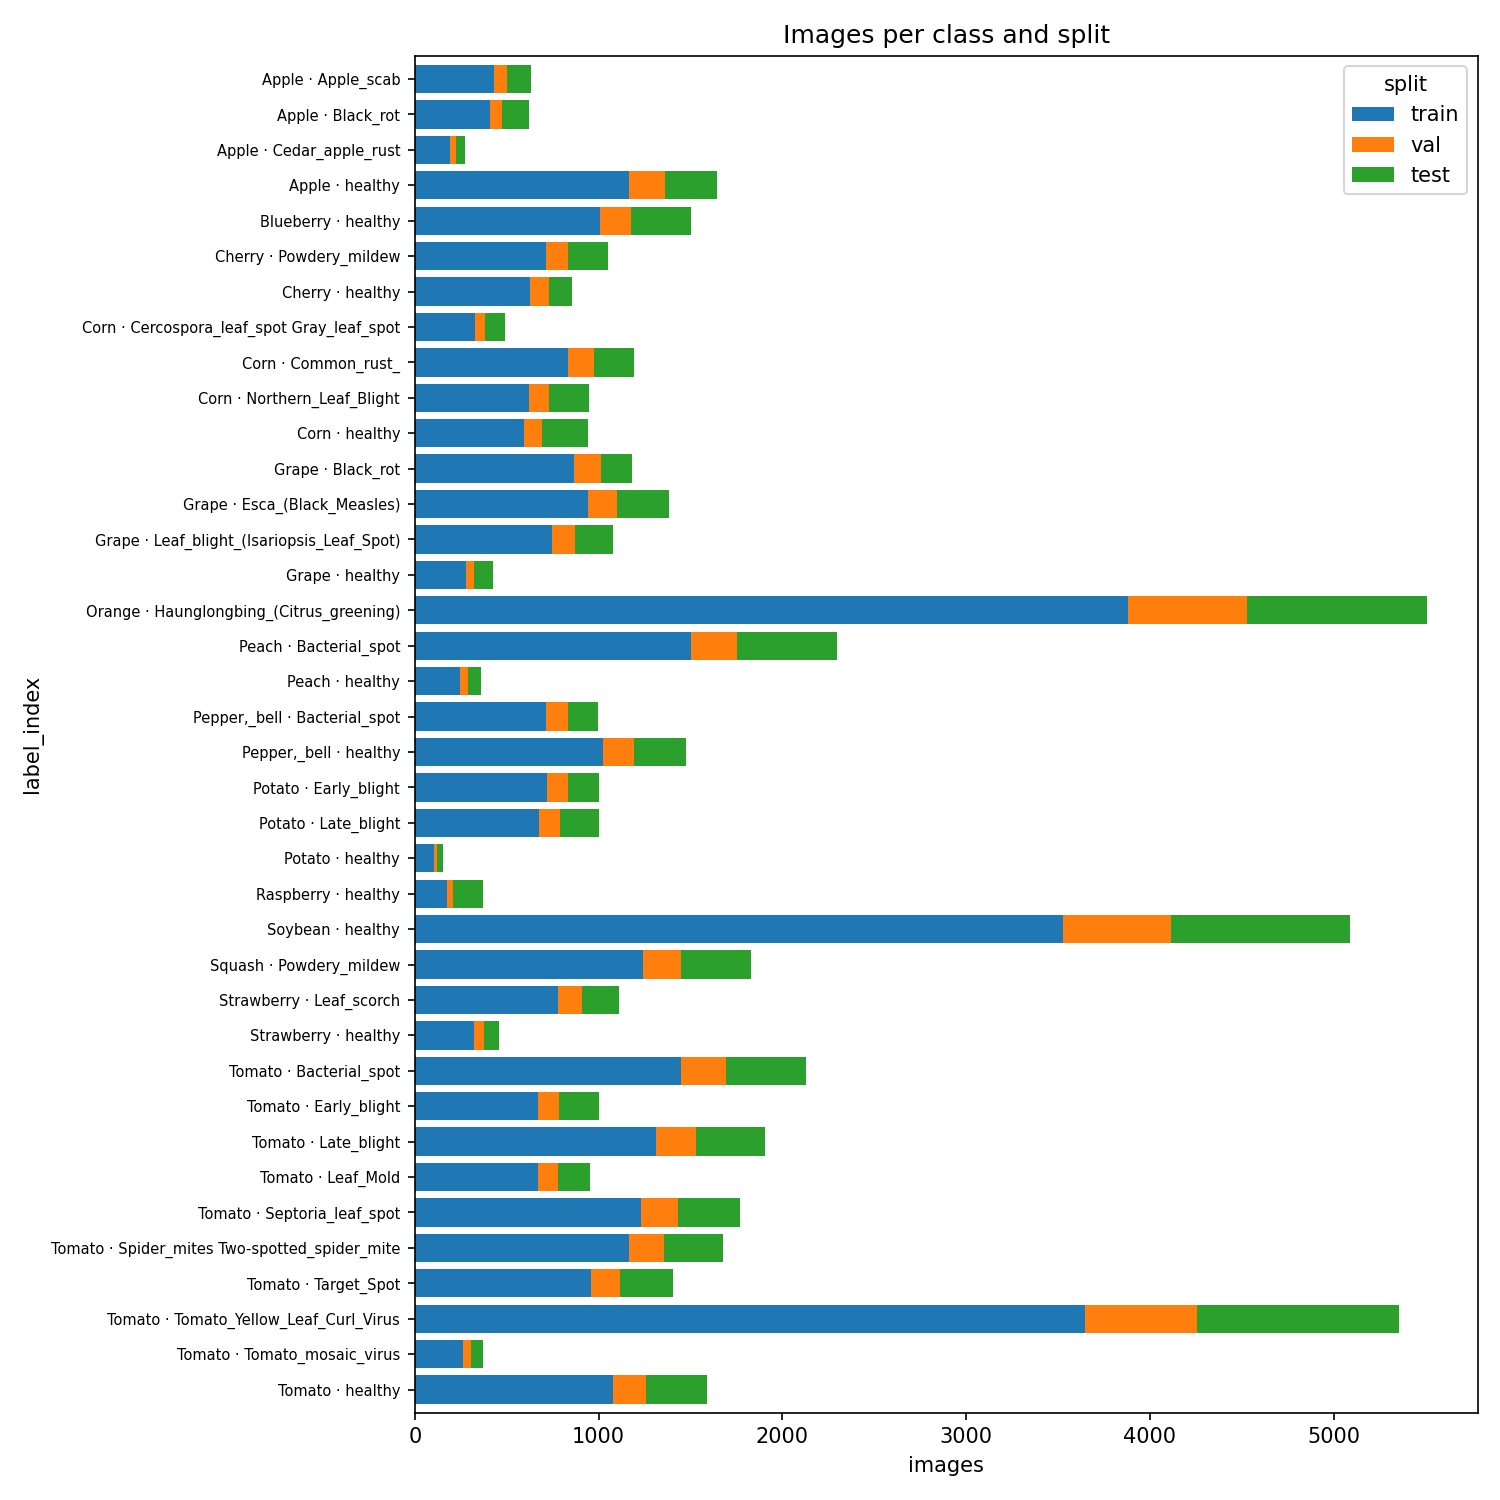
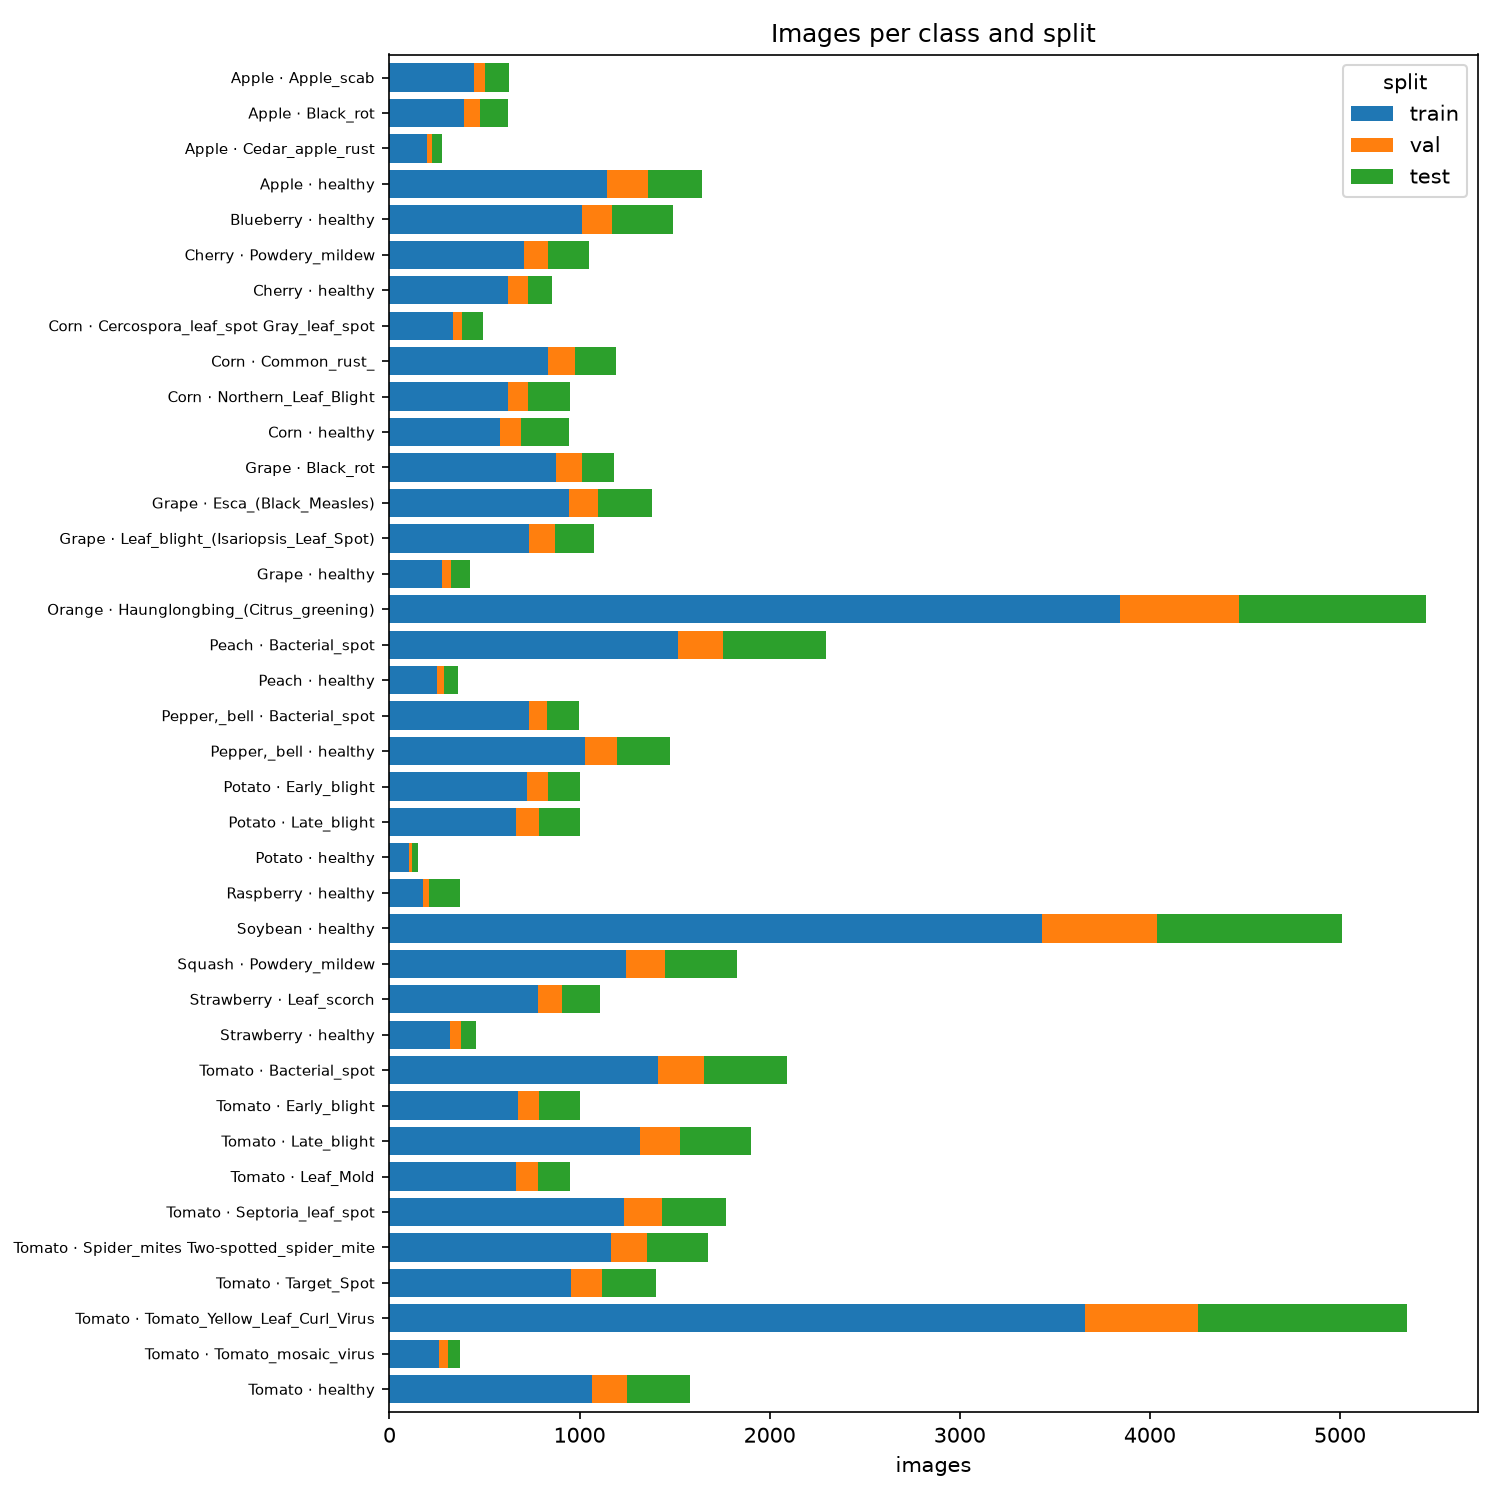
Stage 2 polish: self-checking bootstrap, pinned ruff, refreshed EDA figures, docs

diff --git a/docs/decisions.md b/docs/decisions.md
@@ -45,7 +45,8 @@ original plan (v1.0, 18 Nov 2026). Each entry: context → decision → conseque
   Corn healthy and Corn Northern_Leaf_Blight are 100% fallback). Among the official train and
   test splits, 227 leaf ids occur in both; **all 227 are fallback ids** (290 train and 243 test
   images). Examples: `GH_HL Leaf 220.JPG` appears in train and test under different UUID
-  prefixes. Images with a leaf-map entry show no overlap at all.
+  prefixes. Images with a leaf-map entry share no leaf id between train and test (they can
+  still share re-shots under different ids; see D-006).
 - **Decision.**
   1. Keep the official test split unchanged.
   2. Remove the 290 overlapping images from train (0.7% of train); they are listed in
@@ -141,9 +142,18 @@ original plan (v1.0, 18 Nov 2026). Each entry: context → decision → conseque
 ## Notes for the data card (step 2.6)
 
 - **Class imbalance:** from 152 images (Potato healthy) to about 5,500 (Orange Haunglongbing);
-  this is why macro-F1, not accuracy, is the main metric.
+  this is why macro-F1, not accuracy, is the main metric. The smallest class has only 16
+  validation and 32 test images, so its per-class scores are noisy; report them with counts.
 - **"copy" files:** names like `RS_NLB 4044 copy 2.jpg` are near-copies of `RS_NLB 4044.JPG`;
   `leaf_identifier` strips "copy …", so both get the same leaf id and stay in one split.
 - **Background shortcut risk:** backgrounds differ between classes (grey, purple-grey, black on
   segmented-looking images). A model could learn the background instead of the symptoms; this is
   checked later with Grad-CAM and, in part B, with the segmented variant.
+
+## D-007 · Tooling: pinned formatter, self-checking bootstrap
+
+- **Decision.** `ruff` is pinned to one version (0.17.5) in the dev extra and in pre-commit, so
+  CI, pre-commit and local runs format code identically and CI cannot break on a new ruff
+  release. The bootstrap notebook now checks the committed splits too (test split equals the
+  official one; no leaf, group or near-identical pair is shared) and reports the official
+  split's 227 shared leaf ids as information instead of a failed check.

diff --git a/README.md b/README.md
@@ -24,7 +24,19 @@ Neural Networks group project, Azerbaijan State Oil and Industry University, Fal
 ### Google Colab (recommended)
 
 Open `notebooks/00_colab_bootstrap.ipynb` in Colab, select a T4 GPU runtime and run all cells.
-It mounts Drive, installs the package and checks access to the dataset.
+It mounts Drive, installs the package, and checks the dataset and the committed splits
+(every line should say `PASS`).
+
+### Reproducing the data step
+
+The splits in `splits/` are committed, so training does not need these steps. To rebuild or audit
+them:
+
+| Step | Where | What it does |
+|---|---|---|
+| `python -m plantdx.data.prepare` | any machine, ~1 min | Rebuilds `splits/*.csv` from the official index files and `splits/duplicate_pairs.csv`; fails if anything leaks. |
+| `notebooks/01_data_audit_eda.ipynb` | Colab, ~10 min | Downloads the images, EDA figures, first (withdrawn) hash audit. |
+| `notebooks/02_duplicates_and_resplit.ipynb` | Colab, ~15 min | Searches all images for near-identical pairs, measures each cut-off, writes `splits/duplicate_pairs.csv`, rebuilds and verifies the splits. |
 
 ### Local
 
@@ -42,8 +54,8 @@ make test    # unit tests
 ```
 configs/          experiment configs (YAML, inherit from base.yaml)
 src/plantdx/      all logic: data/, models/, train, evaluate, explain
-notebooks/        Colab bootstrap, EDA, result plots only
-splits/           train/val/test CSVs with leaf_id (committed)
+notebooks/        00 bootstrap, 01 EDA + first audit, 02 duplicate search; later: result plots
+splits/           train/val/test CSVs with leaf_id and group_id, duplicate pairs (committed)
 tests/            pytest: splits, pipeline, models
 app/gradio/       demo
 docs/             problem statement, data card, decision log, report
